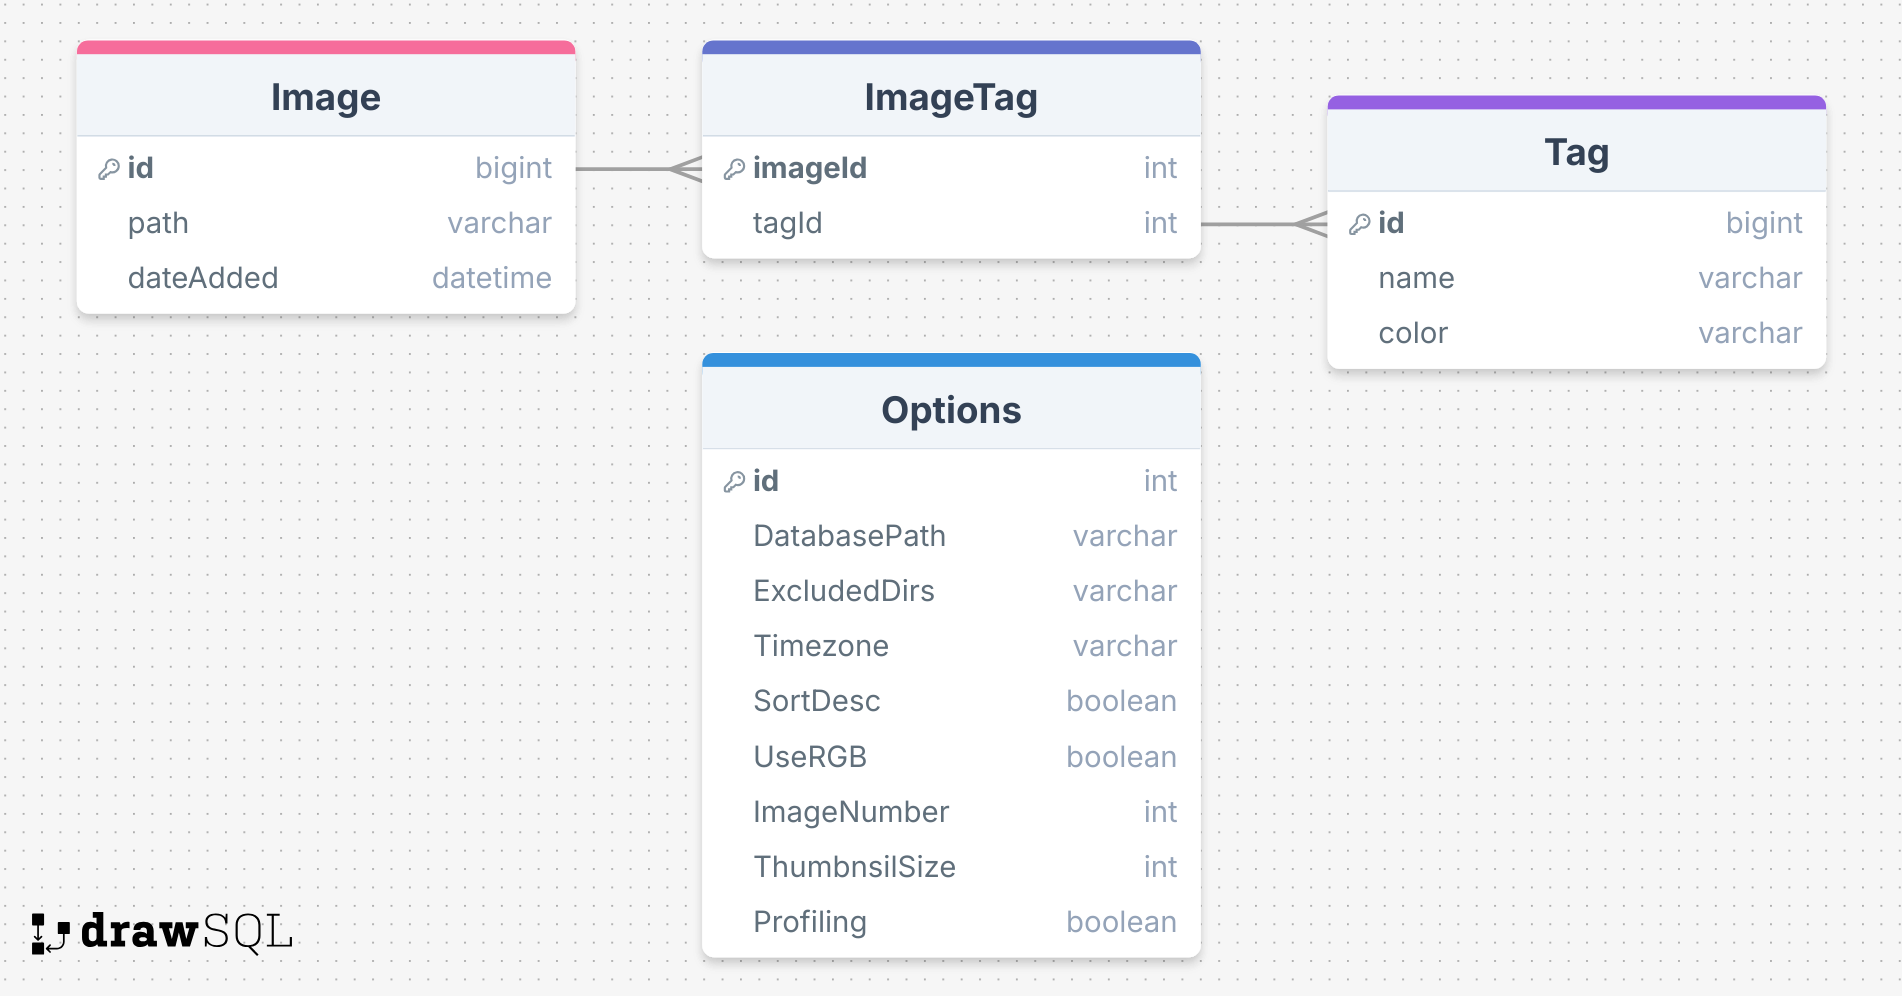
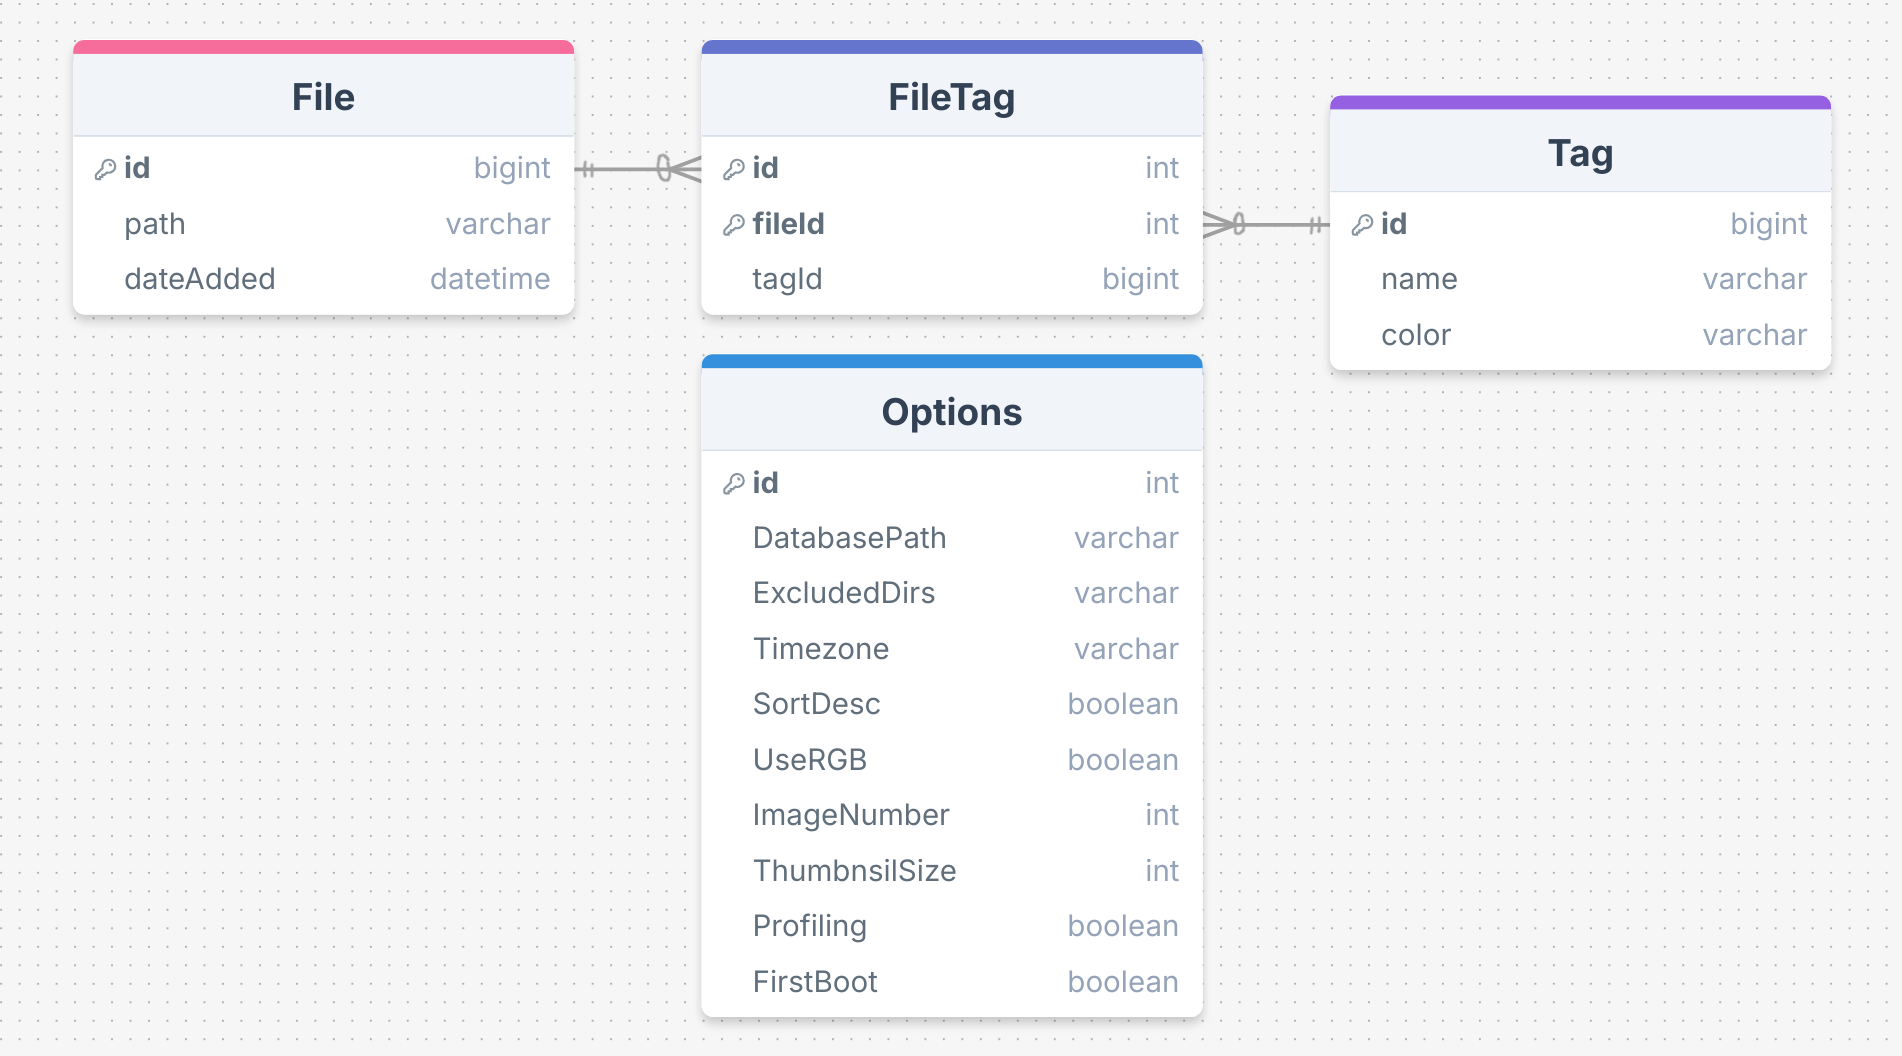
Added encryption to archive

diff --git a/goexport/database/database.go b/goexport/database/database.go
@@ -38,8 +38,8 @@ func Init() *sql.DB {
 func setupTables(db *sql.DB) {
 	tables := []string{
 		"CREATE TABLE IF NOT EXISTS `Tag`(`id` INTEGER PRIMARY KEY NOT NULL, `name` VARCHAR(255) NOT NULL, `color` VARCHAR(7) NOT NULL);",
-		"CREATE TABLE IF NOT EXISTS `File`(`id` INTEGER PRIMARY KEY NOT NULL, `path` VARCHAR(1024) NOT NULL, `dateAdded` DATETIME NOT NULL);",
-		"CREATE INDEX IF NOT EXISTS idx_image_path ON File(path);",
+		"CREATE TABLE IF NOT EXISTS `File`(`id` INTEGER PRIMARY KEY NOT NULL, `path` VARCHAR(1024) NOT NULL UNIQUE, `dateAdded` DATETIME NOT NULL);",
+		"CREATE INDEX IF NOT EXISTS idx_image_path ON File(path);", // Creates index on File.path to make searching by path faster
 		"CREATE TABLE IF NOT EXISTS `FileTag`(`id` INTEGER PRIMARY KEY NOT NULL, `fileId` INTEGER NOT NULL, `tagId` INTEGER NOT NULL);",
 		"CREATE TABLE IF NOT EXISTS `Options`(`DatabasePath` VARCHAR(255) NOT NULL, `ExcludedDirs` VARCHAR(255) NOT NULL, `Timezone` VARCHAR(1024) NOT NULL, `SortDesc` BOOLEAN DEFAULT true, `UseRGB` BOOLEAN DEFAULT false, `ImageNumber` INTEGER NOT NULL DEFAULT 20, `ThumbnailSize` INTEGER NOT NULL DEFAULT 256, `Profiling` BOOLEAN DEFAULT false, `ExifFields` VARCHAR(255), `FirstBoot` BOOLEAN DEFAULT false);",
 	}
@@ -101,13 +101,18 @@ func GetDate(db *sql.DB, path string) string {
 
 func GetImagePathsByTag(db *sql.DB, tagName string) ([]string, error) {
 	query := `SELECT DISTINCT File.path FROM File JOIN FileTag ON File.id = FileTag.fileId JOIN Tag ON FileTag.tagId = Tag.id WHERE Tag.name LIKE ?`
-	// query := `
-	// SELECT DISTINCT Image.path
-	// FROM Image
-	// JOIN ImageTag ON Image.id = ImageTag.imageId
-	// JOIN Tag ON ImageTag.tagId = Tag.id
-	// WHERE Tag.name LIKE ? OR Image.path LIKE ?
-	// `
+
+	// appLogger.Println("Searchable Tag: ", tagName)
+
+	if tagName == "" || tagName == "%%" {
+		// query = `
+		// 	SELECT DISTINCT File.path
+		// 	FROM File
+		// 	JOIN FileTag ON File.id = FileTag.fileId
+		// 	JOIN Tag ON FileTag.tagId = Tag.id
+		// `
+		return GetImagesFromDatabase(db, 0, 20)
+	}
 
 	stmt, err := db.Prepare(query)
 	if err != nil {
@@ -115,12 +120,19 @@ func GetImagePathsByTag(db *sql.DB, tagName string) ([]string, error) {
 	}
 	defer stmt.Close()
 
-	// rows, err := stmt.Query(tagName, tagName)
 	rows, err := stmt.Query(tagName)
 	if err != nil {
 		return nil, err
 	}
 	defer rows.Close()
+
+	// if tagName == "" || tagName == "%%" {
+	// 	rows, err = stmt.Query(query)
+	// 	if err != nil {
+	// 		return nil, err
+	// 	}
+	// 	defer rows.Close()
+	// }
 
 	var paths []string
 	for rows.Next() {
@@ -145,8 +157,9 @@ func SearchImagesByTag(db *sql.DB, tagName string) ([]string, error) {
 		FROM File
 		JOIN FileTag ON File.id = FileTag.fileId
 		JOIN Tag ON FileTag.tagId = Tag.id
-		WHERE Tag.name LIKE ?
+		WHERE Tag.name LIKE ?;
 	`
+
 	rows, err := db.Query(query, tagName)
 	// rows, err := db.Query(query)
 	if err != nil {

diff --git a/README.md b/README.md
@@ -41,6 +41,7 @@ Current supported image types:
 - [ ] SVG
 - [ ] AVIF
 - [ ] QOI
+- [ ] DNG
 - [ ] JPEGXL Someday... Maybe... Possibly...?
 
 ## App Demo Images
